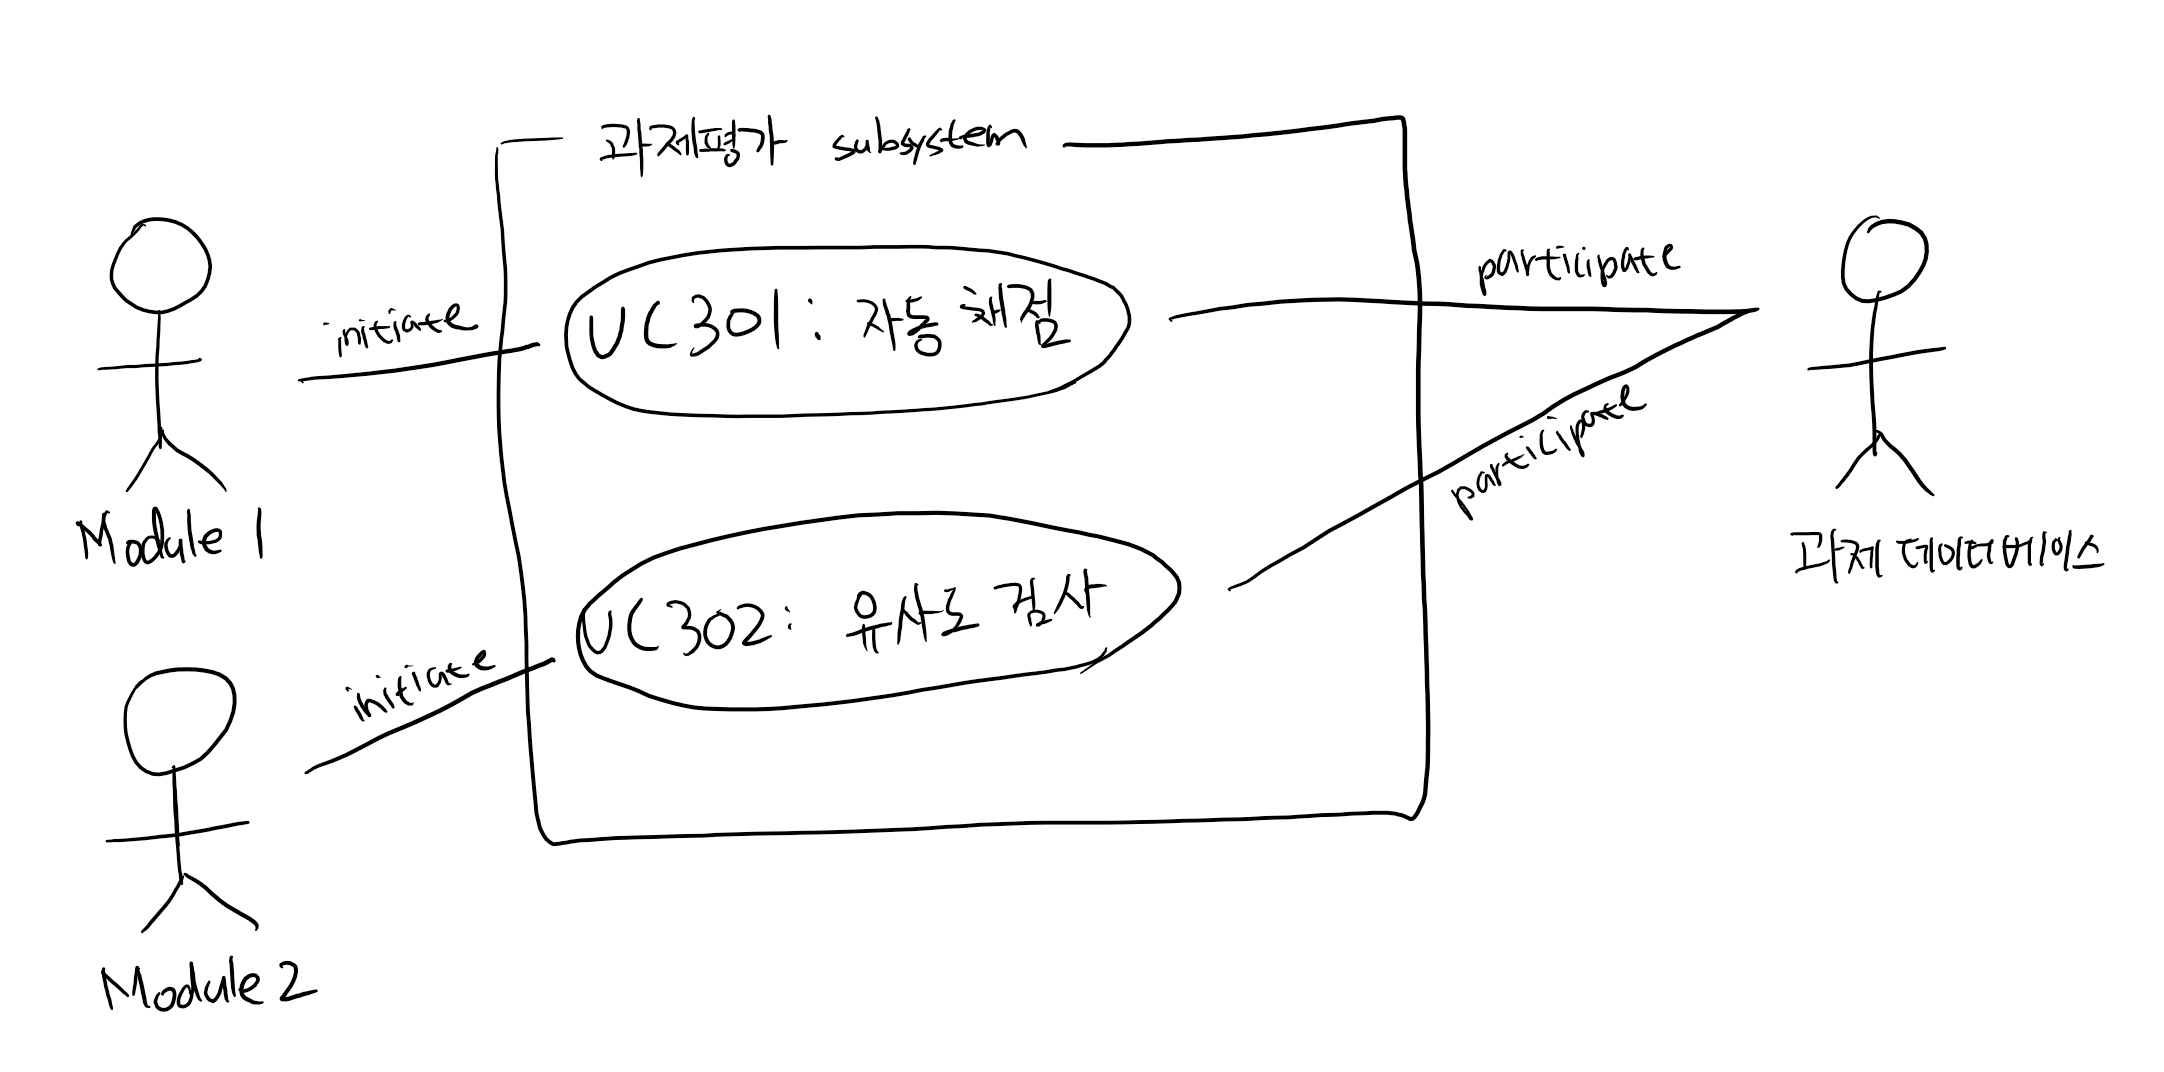
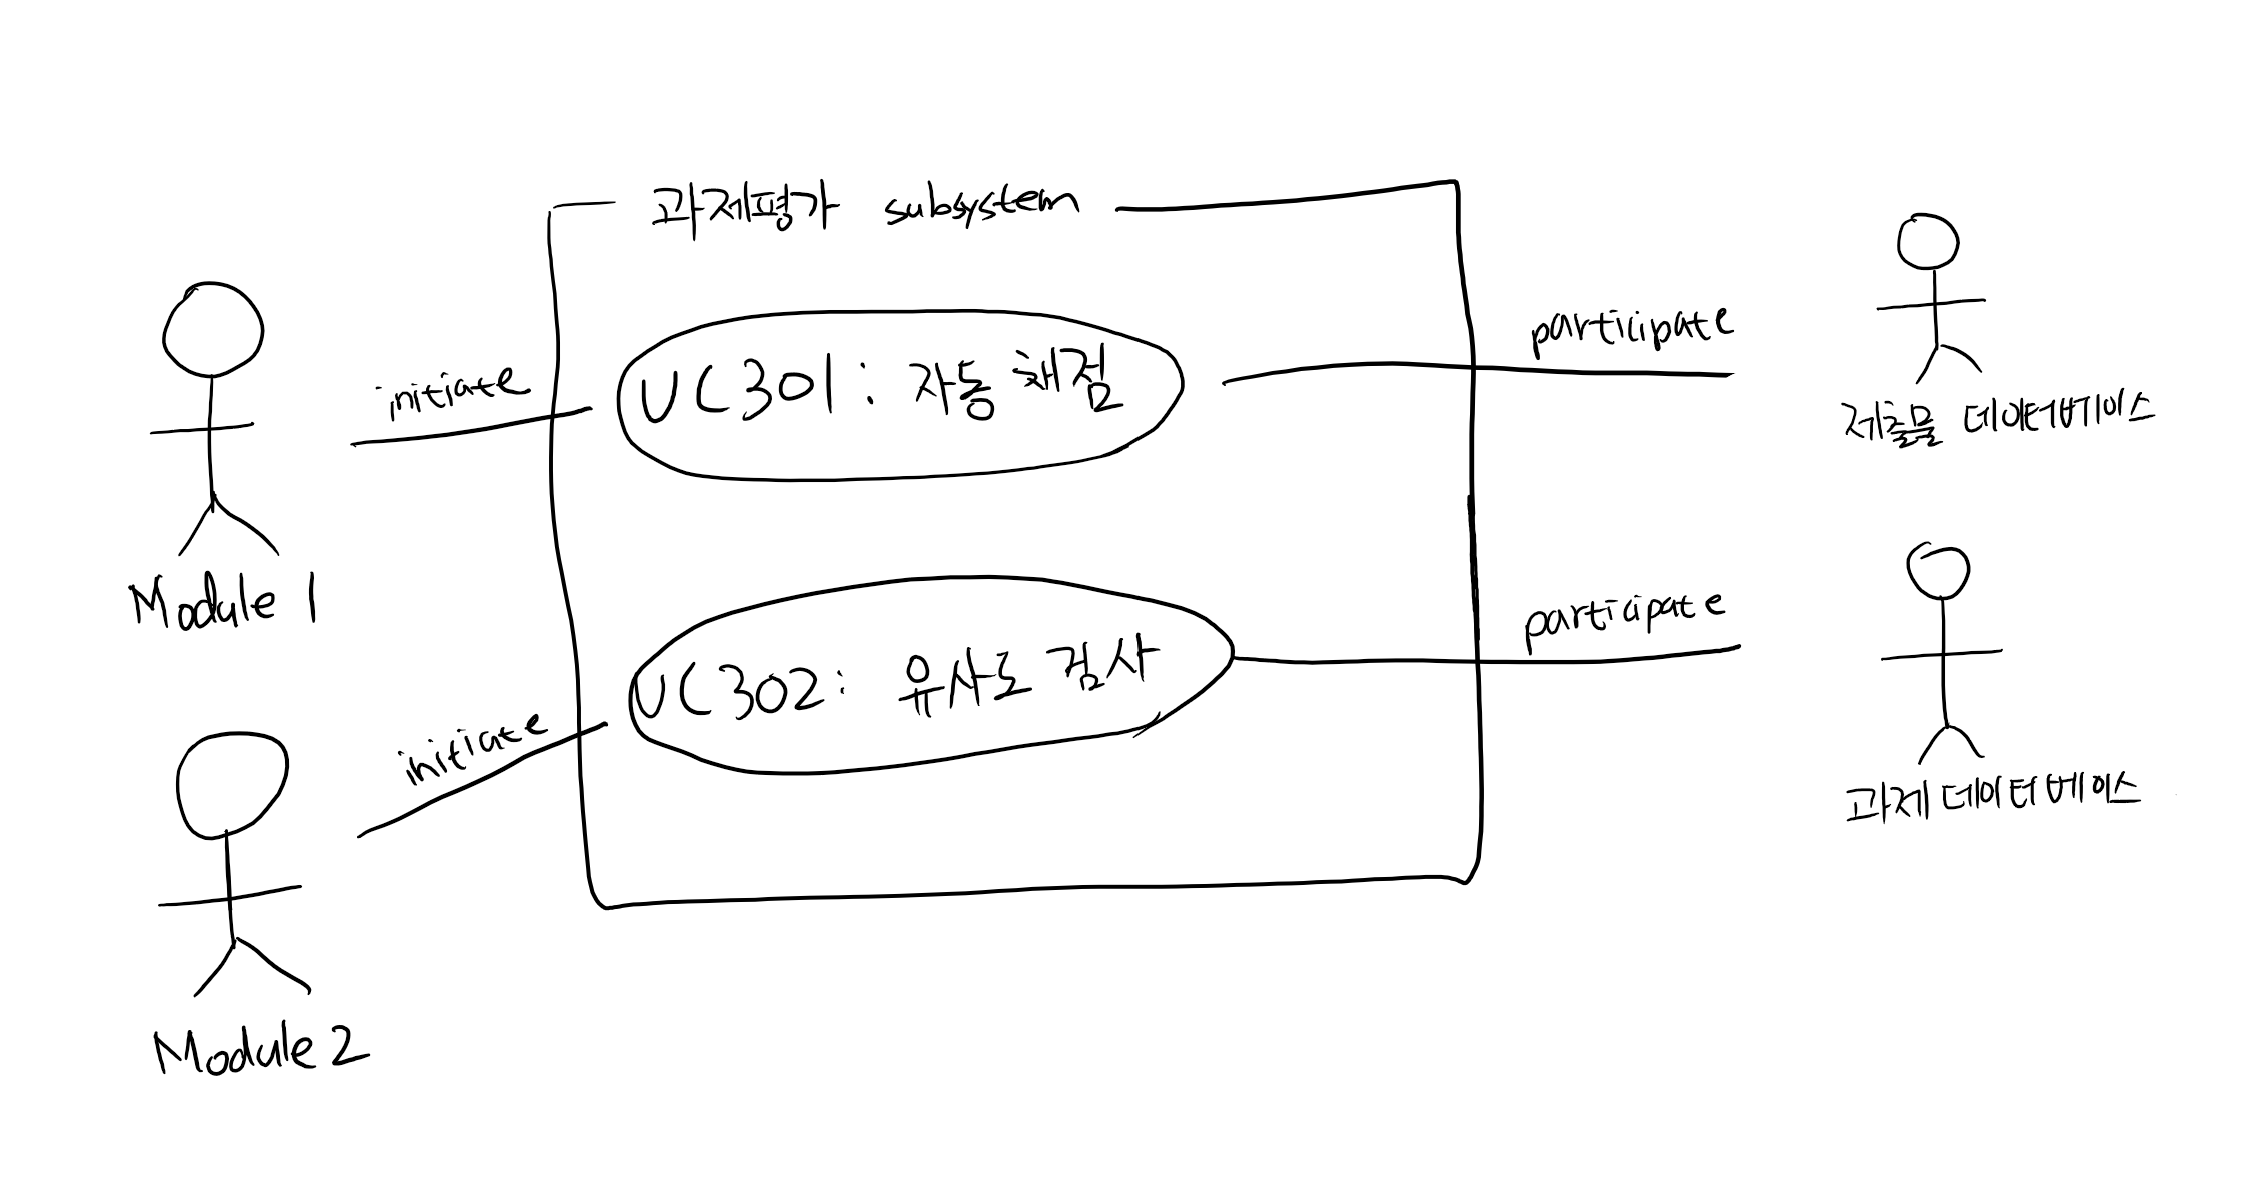
수정사항 반영

diff --git a/Use Case/Module3_SystemCore/Use Case 301 - 자동 채점.md b/Use Case/Module3_SystemCore/Use Case 301 - 자동 채점.md
@@ -7,12 +7,12 @@
 | __Actor's Goal__         | 제출된 코드에 대한 테스트를 실행하고 결과를 반환 |
 | __Participating Actors__ | 과제 데이터베이스 |
 | __Preconditions__        | 없음 (다른 모듈에 의해서 invoke 되는 케이스임) |
-| __Postconditions__       | 과제 데이터베이스에 채점 결과가 저장됨 |
+| __Postconditions__       | 제출물 데이터베이스에 채점 결과가 저장됨 |
 
 |    | Flow of Events for Main Success Scenario |
 | - | - |
 | -> | 1. Module 2이 채점 대기열에 자동 채점이 필요한 코드와 테스트 케이스에 대한 정보를 넣는다. |
-| <- | 2. 시스템은 대기열에서 정보를 하나씩 꺼내 (a) 제공된 코드와 테스트 케이스를 이용해 자동화 테스트를 실행하고, (b) 그 결과를 데이터베이스에 저장한다. |
+| <- | 2. 시스템은 대기열에서 정보를 하나씩 꺼내 (a) 제공된 코드와 테스트 케이스를 이용해 자동화 테스트를 실행하고, (b) 그 결과를 제출물 데이터베이스에 저장한다. |
 
 -------
 

diff --git a/Use Case/Module3_SystemCore/Module 3 - Deriving Use Cases from User Story.md b/Use Case/Module3_SystemCore/Module 3 - Deriving Use Cases from User Story.md
@@ -4,5 +4,3 @@
 |TBI|제출된 코드들 간의 유사도를 파악하고 결과를 반환|유사도 검사(UC-2)|
 |교육자|학생이 제출한 과제를 신속하게 평가하고 피드백을 제공|UC-1, UC-2|
 |학생|자신이 제출한 과제에 대한 신속한 피드백을 제공받음|UC-1|
-
-![Module 3 Use Case Traceability Matrix](img/Module3_Use_Case_Traceability_Matrix.png)

diff --git a/Use Case/Module3_SystemCore/Module 3 - Traceability Matrix.md b/Use Case/Module3_SystemCore/Module 3 - Traceability Matrix.md
@@ -12,3 +12,5 @@
 | FR10 | 3 |   |   |
 | MAX PW || 6 | 6 |
 | TOTAL PW || 6 | 6 |
+
+![Module 3 Use Case Traceability Matrix](img/Module3_Use_Case_Traceability_Matrix.png)
